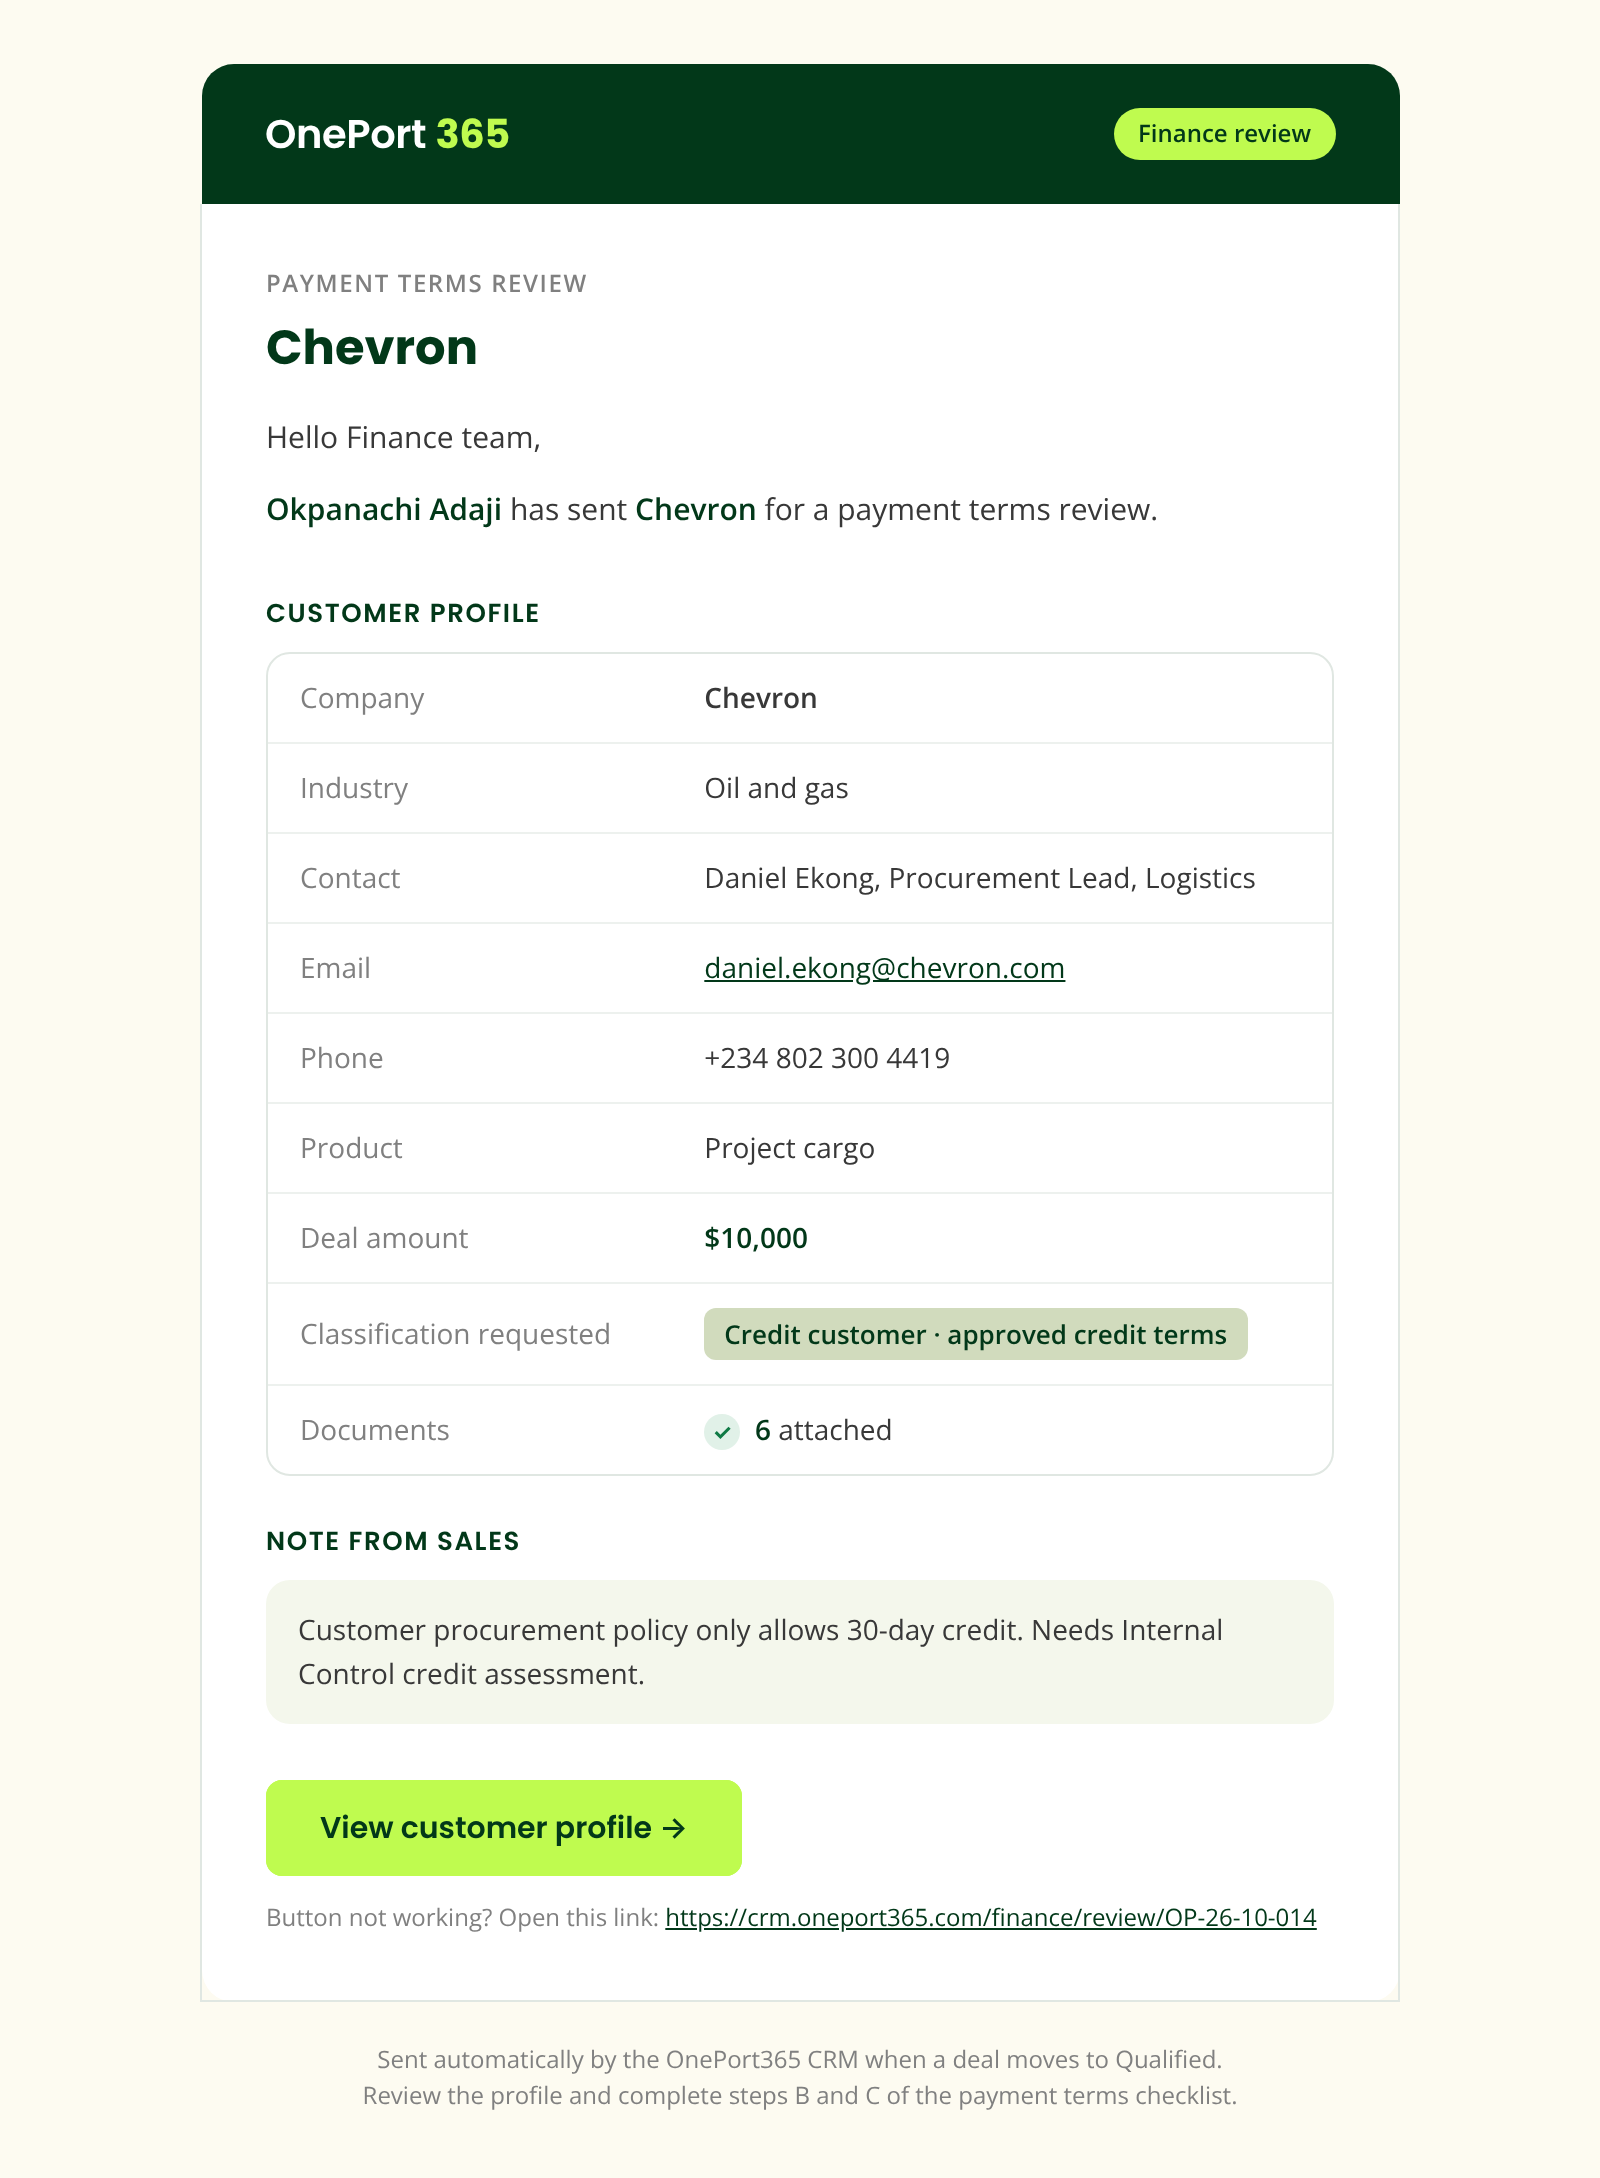
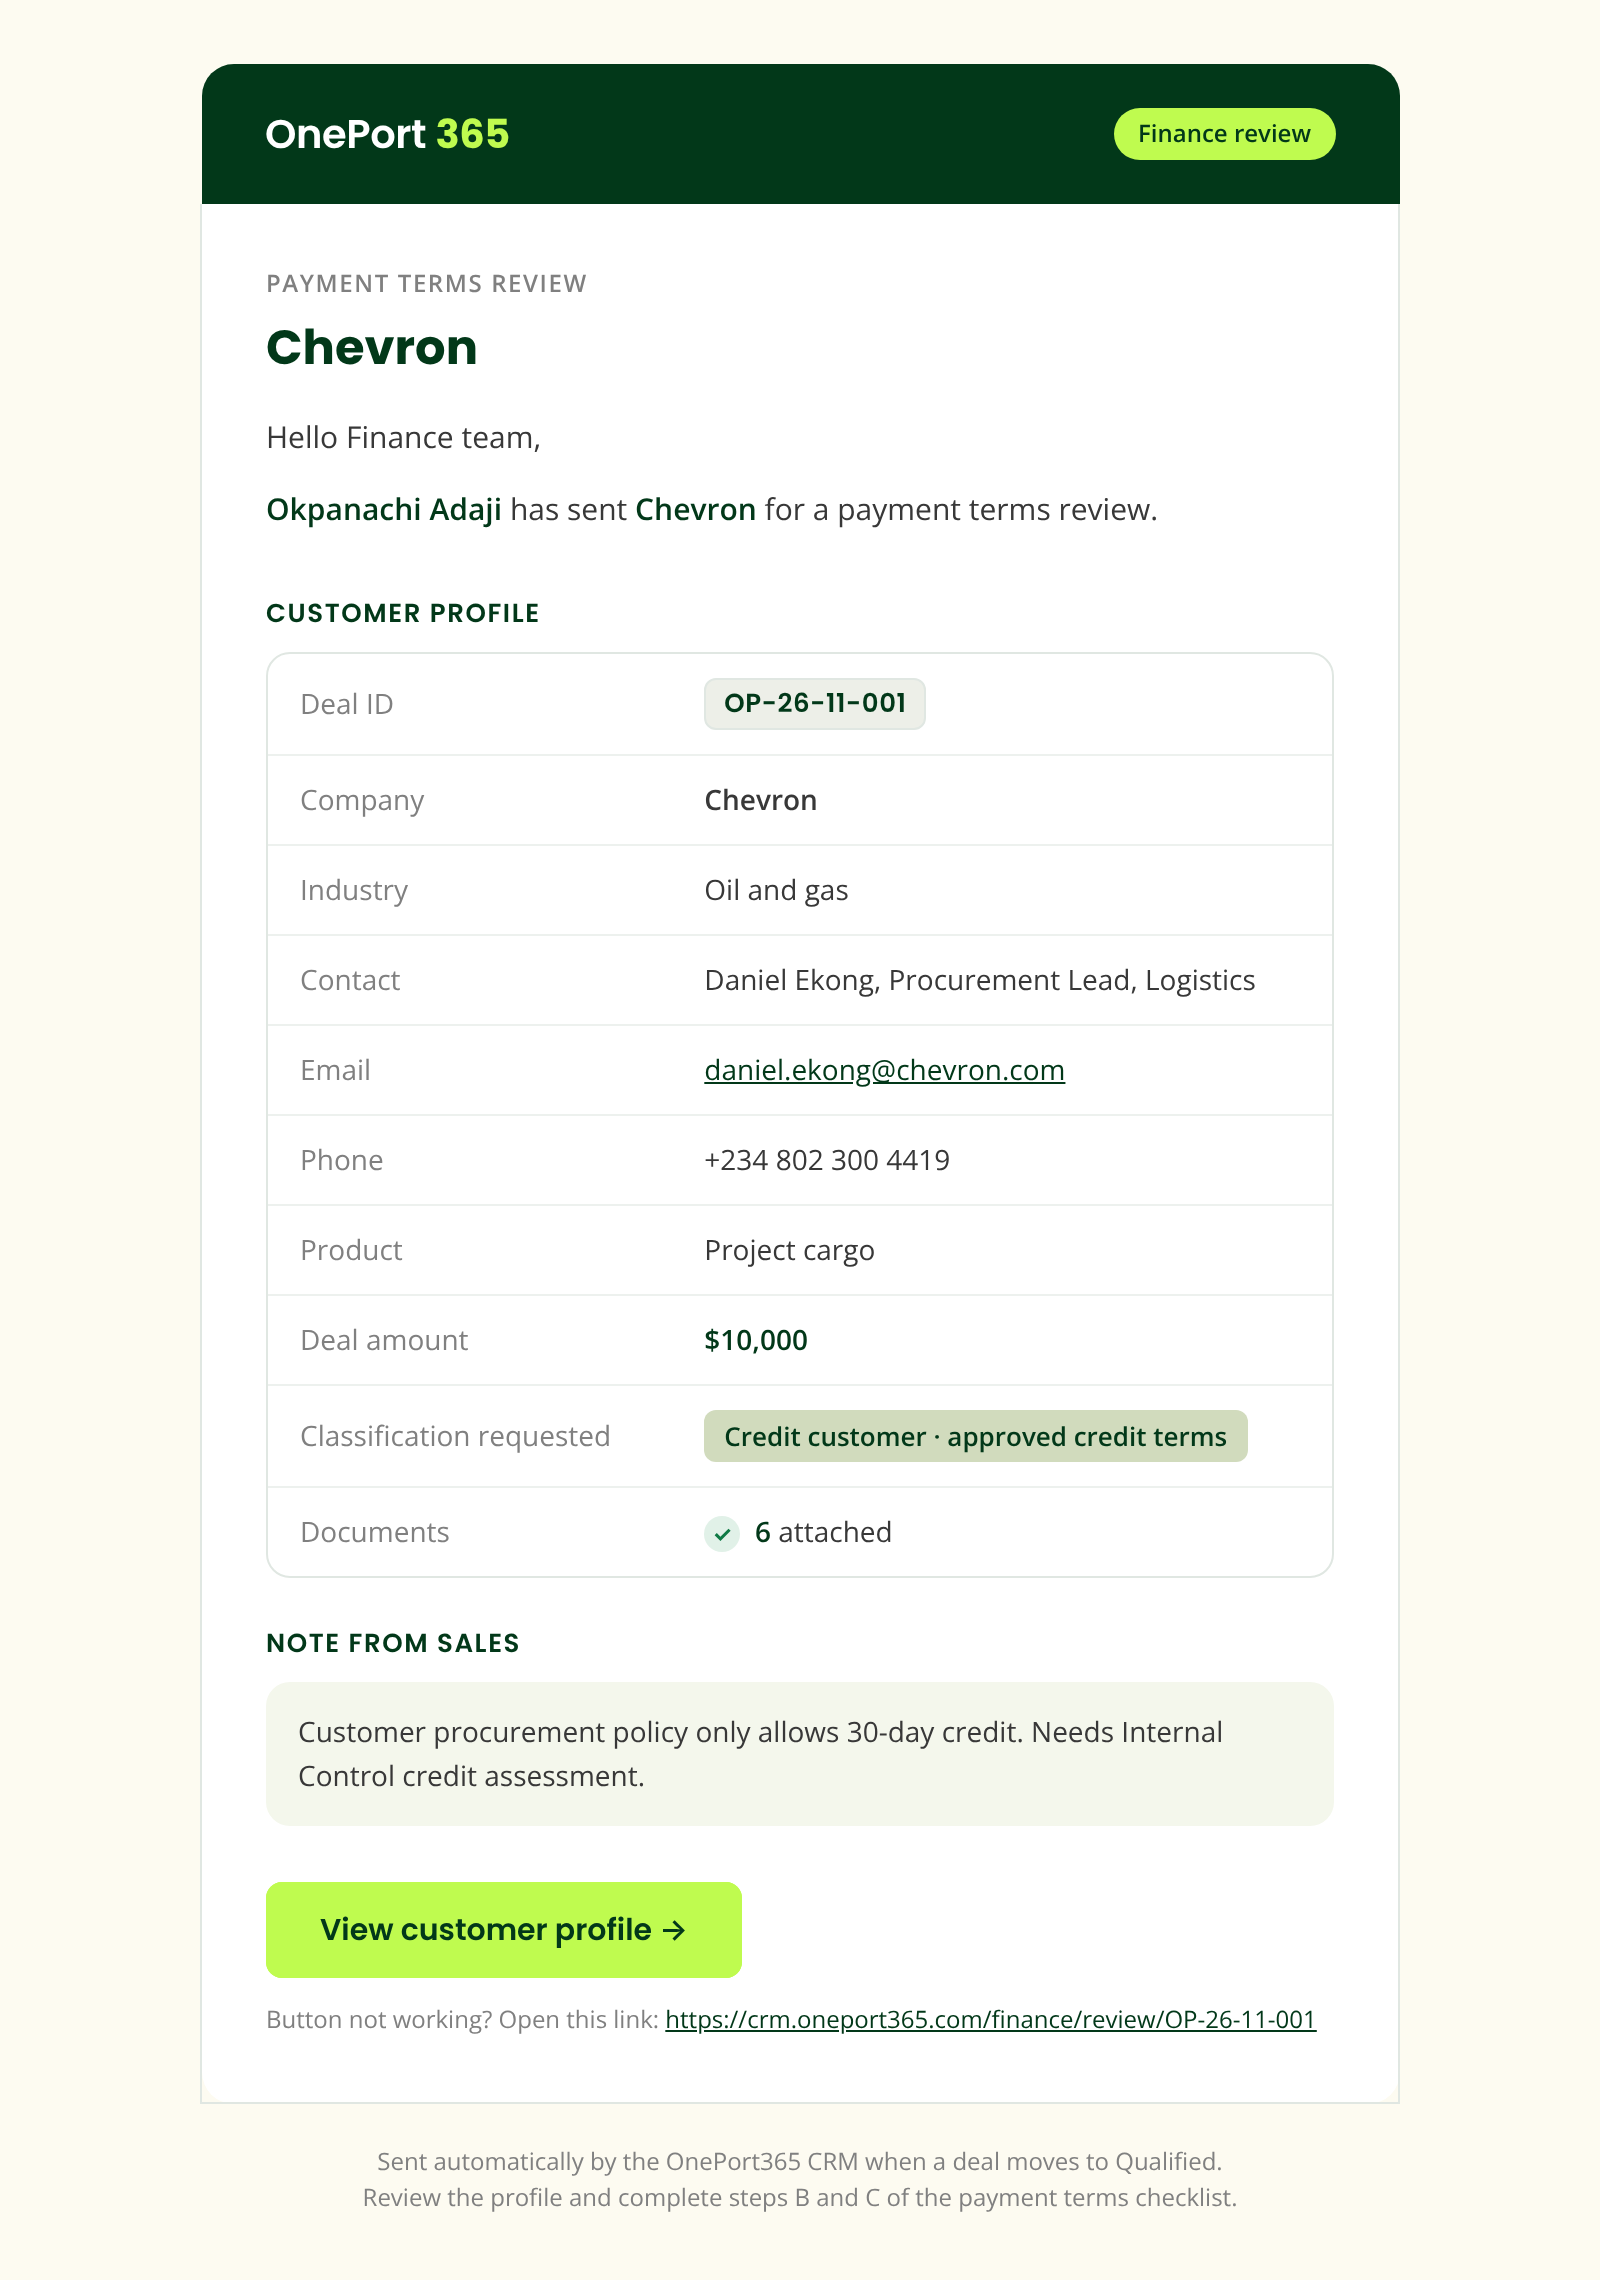
Email: include the deal ID
Adds {{deal_id}} as the first row of the customer profile, in the email
title and in the inbox preview text.

Claude-Session: https://claude.ai/code/session_01P9W1QE3QjdQx6aktqHYyXw

diff --git a/email/finance-review-request.html b/email/finance-review-request.html
@@ -7,14 +7,14 @@
 <meta name="x-apple-disable-message-reformatting">
 <meta name="color-scheme" content="light">
 <meta name="supported-color-schemes" content="light">
-<title>Payment terms review: {{company_name}}</title>
+<title>Payment terms review: {{company_name}} ({{deal_id}})</title>
 <!--
   OnePort365 email: Finance payment terms review request.
   Design tokens (OnePort365 design system): dark green #023819, lime #BFFB4F, light green #D1DBBD,
   cream #FDFBF1, text #383838, muted #808080, card border rgba(2,56,25,.12) ~ #E0E7E2, divider ~ #EDF1EE.
   Fonts: Poppins (headings), Open Sans (body), system fallbacks.
   Placeholders are Mustache/Handlebars style:
-    {{sales_owner_name}} {{company_name}} {{industry}} {{contact_name}} {{contact_role}} {{contact_email}}
+    {{deal_id}} {{sales_owner_name}} {{company_name}} {{industry}} {{contact_name}} {{contact_role}} {{contact_email}}
     {{contact_phone}} {{product}} {{deal_amount}} {{classification_label}} {{doc_count}} {{sales_note}} {{review_link}}
     {{#sales_note}} ... {{/sales_note}}                                  the note block only shows when there is a note
     {{#doc_count}} ... {{/doc_count}} / {{^doc_count}} ... {{/doc_count}}  "N attached", or "None attached" when the count is 0
@@ -43,7 +43,7 @@
 <body style="margin:0;padding:0;background:#FDFBF1;">
 <!-- inbox preview text -->
 <div style="display:none;max-height:0;overflow:hidden;mso-hide:all;font-size:1px;line-height:1px;color:#FDFBF1;">
-  {{sales_owner_name}} has sent {{company_name}} for a payment terms review. {{classification_label}} · {{deal_amount}}.&nbsp;&zwnj;&nbsp;&zwnj;&nbsp;&zwnj;&nbsp;&zwnj;
+  {{sales_owner_name}} has sent {{company_name}} ({{deal_id}}) for a payment terms review. {{classification_label}} · {{deal_amount}}.&nbsp;&zwnj;&nbsp;&zwnj;&nbsp;&zwnj;&nbsp;&zwnj;
 </div>
 
 <table role="presentation" width="100%" cellpadding="0" cellspacing="0" border="0" style="background:#FDFBF1;">
@@ -88,7 +88,11 @@
               <p style="margin:0 0 10px;font-family:'Poppins',-apple-system,'Segoe UI',Arial,sans-serif;font-size:13px;line-height:18px;font-weight:600;letter-spacing:0.8px;text-transform:uppercase;color:#023819;">Customer profile</p>
               <table role="presentation" width="100%" cellpadding="0" cellspacing="0" border="0" style="border:1px solid #E0E7E2;border-radius:12px;border-collapse:separate;font-family:'Open Sans',-apple-system,'Segoe UI',Arial,sans-serif;font-size:14px;line-height:20px;">
                 <tr>
-                  <td class="kv-k" width="38%" style="padding:12px 16px;border-bottom:1px solid #EDF1EE;color:#808080;">Company</td>
+                  <td class="kv-k" width="38%" style="padding:12px 16px;border-bottom:1px solid #EDF1EE;color:#808080;">Deal ID</td>
+                  <td class="kv-v" style="padding:12px 16px;border-bottom:1px solid #EDF1EE;"><span style="display:inline-block;background:#EDEFE8;color:#023819;font-family:'Poppins',-apple-system,'Segoe UI',Arial,sans-serif;font-size:13px;line-height:18px;font-weight:600;letter-spacing:0.3px;padding:3px 9px;border-radius:6px;border:1px solid #E0E7E2;">{{deal_id}}</span></td>
+                </tr>
+                <tr>
+                  <td class="kv-k" style="padding:12px 16px;border-bottom:1px solid #EDF1EE;color:#808080;">Company</td>
                   <td class="kv-v" style="padding:12px 16px;border-bottom:1px solid #EDF1EE;color:#383838;font-weight:600;">{{company_name}}</td>
                 </tr>
                 <tr>
